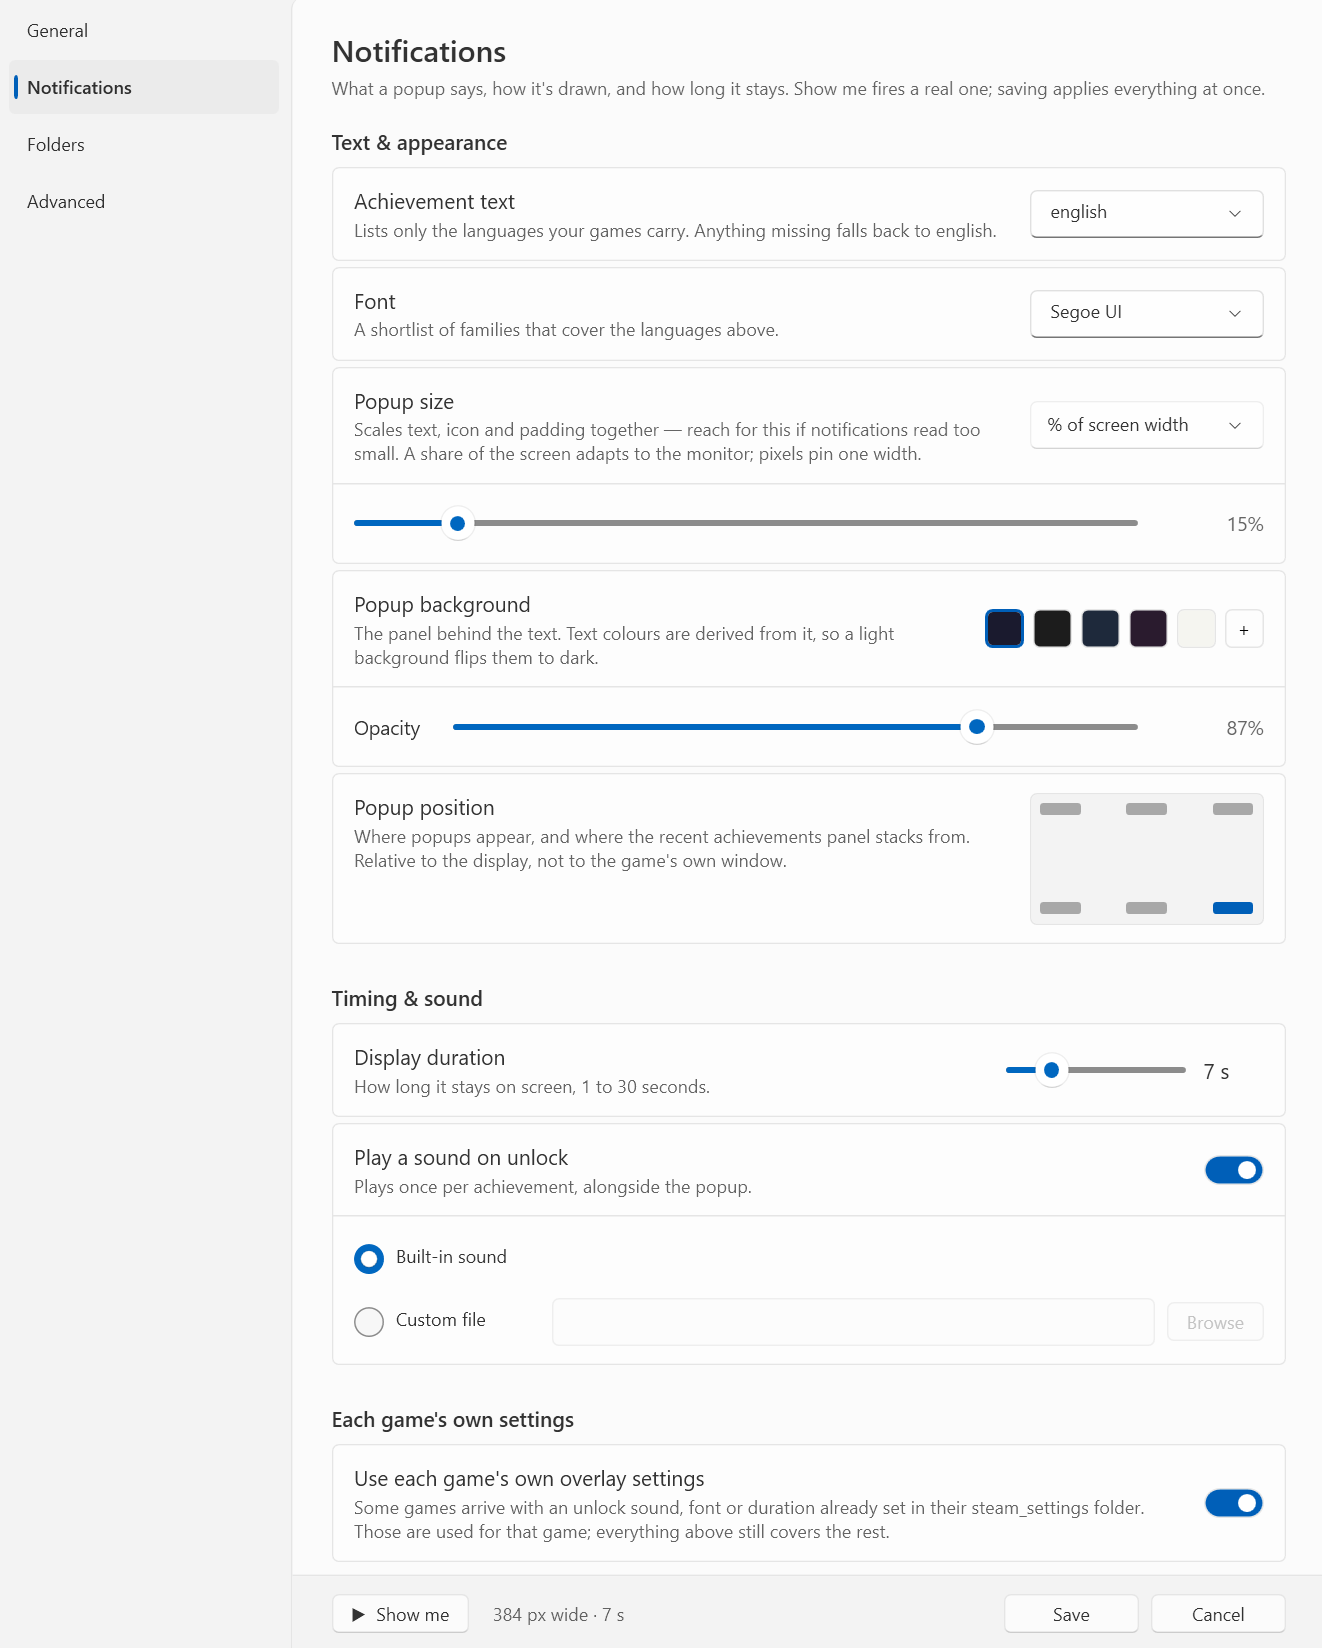
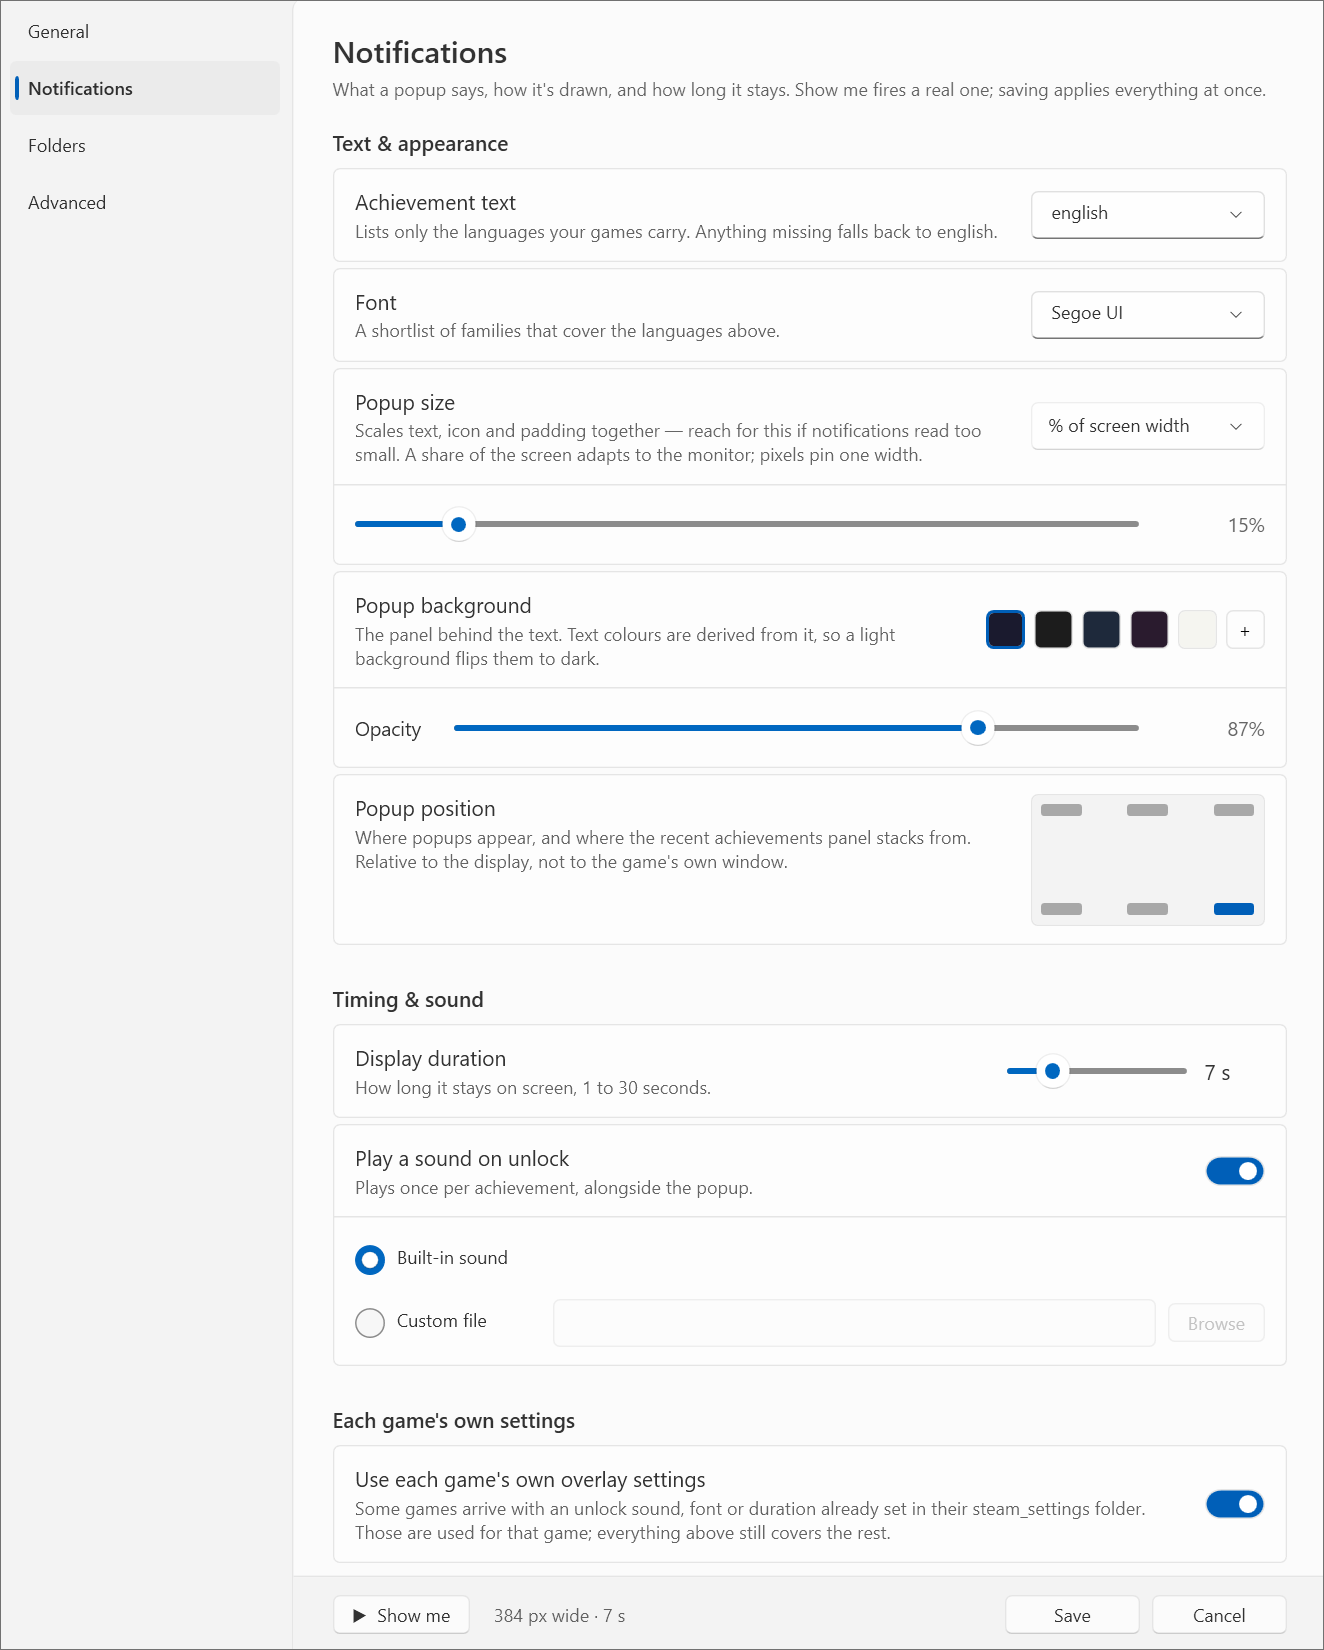
fix: harden the screenshot capture helpers
A desktop-wide UI Automation sweep aborts outright when any running
application's provider misbehaves, which took down every capture script
on this machine for the sake of a window none of them care about.

diff --git a/docs/screenshots/capture/lib/docborder.py b/docs/screenshots/capture/lib/docborder.py
@@ -1,0 +1,70 @@
+"""Stroke a hairline frame around a screenshot whose own edge does not show on the page.
+
+A shot whose border colour matches the page it lands on has no visible boundary, so the reader
+cannot see where the picture stops. macOS gives a decorated window a hairline for free; an
+undecorated one, or a region crop, has none.
+
+Two choices worth keeping:
+
+  * The canvas GROWS by one pixel a side and the original is pasted inside it, so no pixel of the
+    capture is overwritten. Every output is exactly +2 x +2 of its input.
+  * The grey is DERIVED from the image's own edge luminance rather than fixed. A fixed light grey
+    (the #BDBDBD macOS strokes windows with) is invisible against a near-white window edge on a
+    near-white page, which is the exact case this exists for: measured 243 on this project's two
+    settings-style windows.
+
+Run through the capture scripts, never by hand: a border applied by hand is silently lost the next
+time the shot is captured.
+
+Usage: python docborder.py <image.png> [more.png ...]
+"""
+import sys
+from PIL import Image
+
+# How far the hairline sits from the image's own edge, in luminance. Clamped to a mid grey: a light
+# one vanishes on a light page and a dark one on a dark page, and the border has to carry the
+# contrast whenever the image itself barely differs from the page.
+DISTANCE = 130
+MIN_LUM, MAX_LUM = 96, 176
+
+
+def edge_luminance(im):
+    """Median luminance of the opaque pixels on the image's own one-pixel frame."""
+    px, (w, h) = im.load(), im.size
+    lums = []
+    for x in range(0, w, 7):
+        for y in (0, h - 1):
+            r, g, b, a = px[x, y]
+            if a > 200:
+                lums.append(0.2126 * r + 0.7152 * g + 0.0722 * b)
+    for y in range(0, h, 7):
+        for x in (0, w - 1):
+            r, g, b, a = px[x, y]
+            if a > 200:
+                lums.append(0.2126 * r + 0.7152 * g + 0.0722 * b)
+    lums.sort()
+    return lums[len(lums) // 2] if lums else 255.0
+
+
+def border_grey(edge):
+    away = edge - DISTANCE if edge > 127 else edge + DISTANCE
+    return int(round(min(MAX_LUM, max(MIN_LUM, away))))
+
+
+def add_border(path):
+    im = Image.open(path).convert("RGBA")
+    w, h = im.size
+    if min(im.getpixel(c)[3] for c in ((0, 0), (w - 1, 0), (0, h - 1), (w - 1, h - 1))) < 255:
+        # Transparent rounded corners: a square frame would box the corners and leave page
+        # background inside it. Such an image needs a border tracing its shape, not this.
+        print(f"skipped (transparent corners): {path}")
+        return
+    v = border_grey(edge_luminance(im))
+    out = Image.new("RGBA", (w + 2, h + 2), (v, v, v, 255))
+    out.paste(im, (1, 1))
+    out.save(path)
+    print(f"bordered {path}: {w}x{h} -> {w + 2}x{h + 2}, #{v:02x}{v:02x}{v:02x}")
+
+
+for p in sys.argv[1:]:
+    add_border(p)
